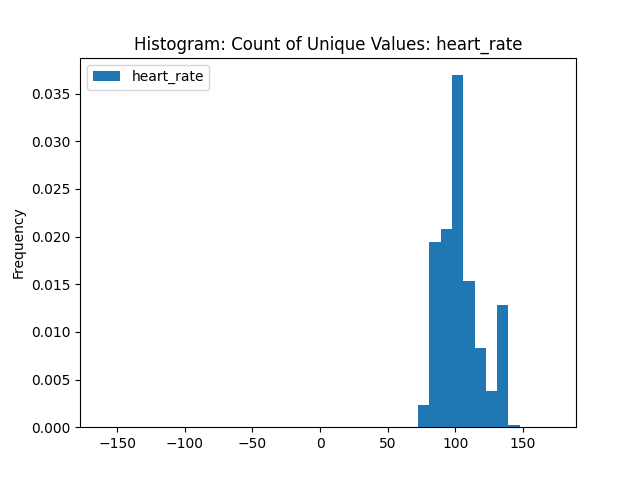
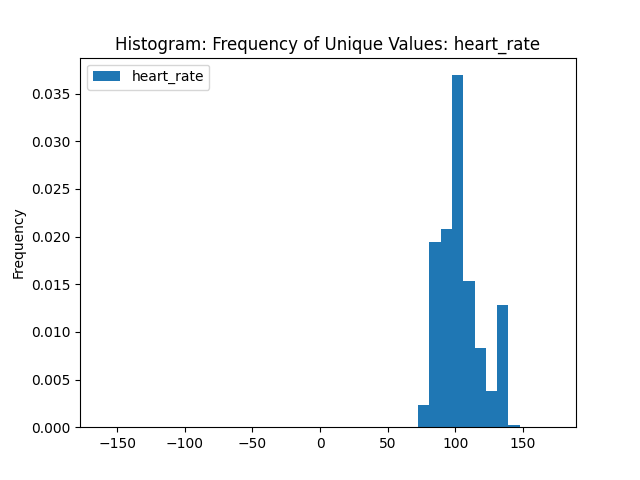
Refactor histogram

Changed region(s): [[0.1875, 0.0625, 0.8438, 0.125]]

diff --git a/Task 6/plots_builder.py b/Task 6/plots_builder.py
@@ -24,11 +24,7 @@ def plot_histogram(categor_column, optimized_processor, path_folder):
     try:
         plt.figure(figsize=(15, 6))
         optimized_processor.dataset.plot.hist(column=categor_column, bins=40, density=True)
-        # value_counts = optimized_processor.dataset[selected_categorical_column].value_counts()
-        # threshold = value_counts.max() / 6.0
-        # filtered_counts = value_counts[value_counts >= threshold]
-        # filtered_counts.plot.bar()
-        plt.title(f'Histogram: Count of Unique Values: {categor_column}')
+        plt.title(f'Histogram: Frequency of Unique Values: {categor_column}')
         save_plot(plt, path_folder, 'histogram.png')
     except Exception as e:
         print(f"An error occurred in plot_bar_chart: {e}")
